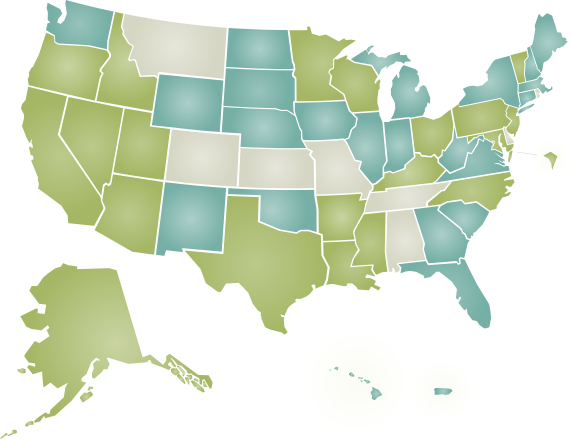
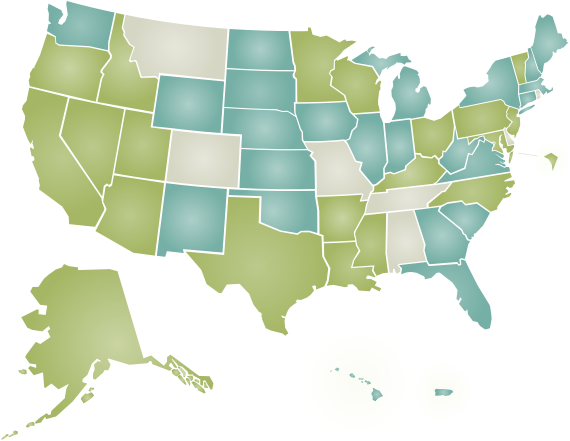
Kansas

diff --git a/templates/status.html b/templates/status.html
@@ -5,7 +5,7 @@
 {% block content %}
 <h2>Project Status</h2>
 
-<p> As of November 29th, 2011 we have data for 42 states, the District of Columbia, and Puerto Rico.  </p> 
+<p> As of December 7th, 2011 we have data for 43 states, the District of Columbia, and Puerto Rico.  </p> 
 
 <p> States are denoted as either "ready" or "experimental" depending on how
 reliable the source data is and how thoroughly we've vetted and cleaned up the
@@ -39,7 +39,7 @@ and Wisconsin.</p>
 
 <h4> Experimental States </h4>
 <p> Experimental states (in blue) are those that we support but have not yet promoted to ready
-status.  Connecticut, Florida, Georgia, Hawaii, Illinois, Indiana, Iowa, Maine,
+status.  Connecticut, Florida, Georgia, Hawaii, Illinois, Indiana, Iowa, Kansas, Maine,
 Massachusetts, Michigan, Nebraska, New Hampshire, New Mexico, New York, North Dakota, Oklahoma, Puerto Rico,
 South Carolina, South Dakota, Virginia, Washington, West Virginia, and Wyoming fall in this category.
 </p>

diff --git a/templates/index.html b/templates/index.html
@@ -37,7 +37,7 @@
                         Open States Project Status
                     </h3>
                     <p>
-                        We currently have data available for 42 states, Washington DC, and Puerto Rico.  If your state isn't available yet learn how to <a href="/contributing/">contribute.</a>
+                        We currently have data available for 43 states, Washington DC, and Puerto Rico.  If your state isn't available yet learn how to <a href="/contributing/">contribute.</a>
                     </p>
                 </div>
                 <div class="map-key">
